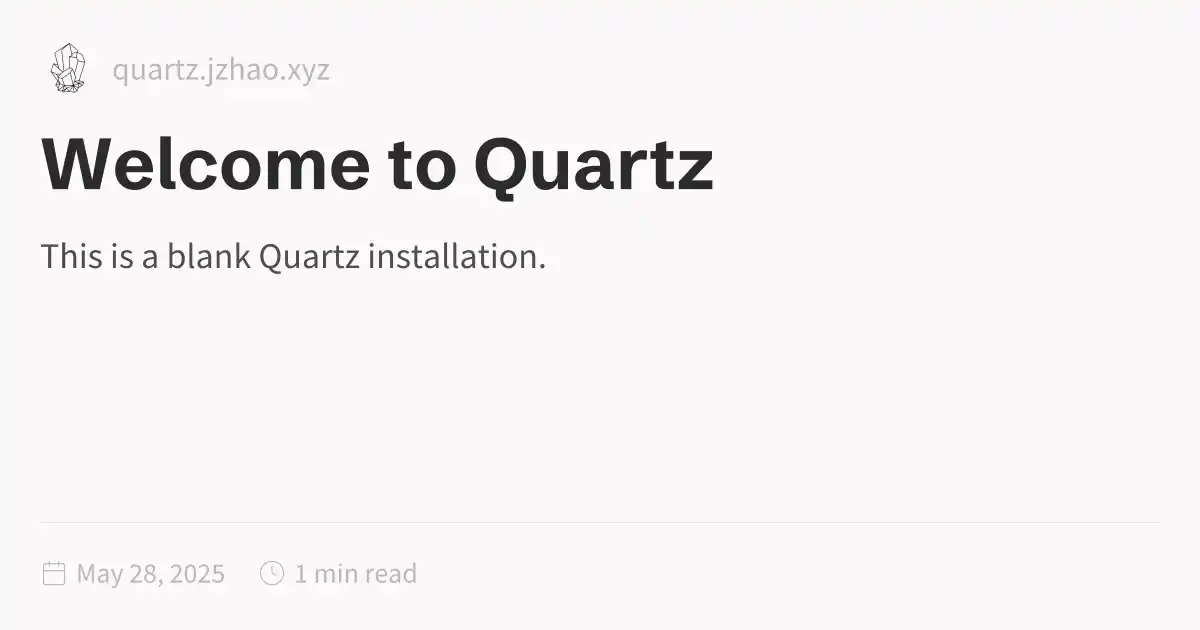
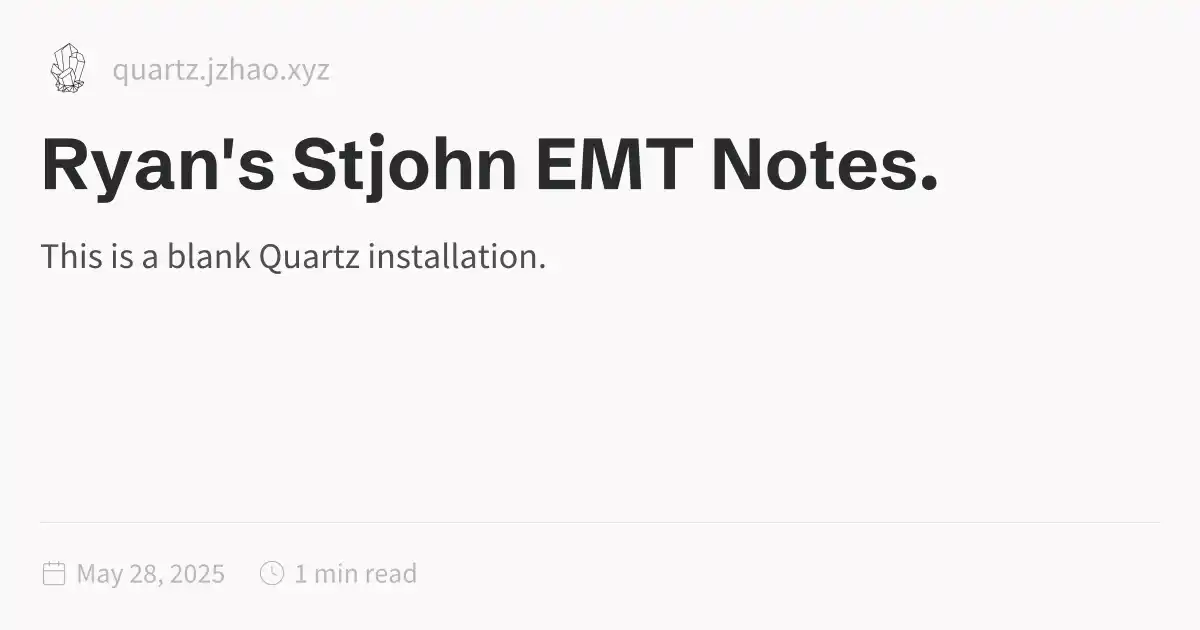
first time modifying public files.

Changed region(s): [[0.0308, 0.2111, 0.8017, 0.3317]]

diff --git a/index.html b/index.html
@@ -1,5 +1,5 @@
 <!DOCTYPE html>
-<html lang="en"><head><title>Welcome to Quartz</title><meta charset="utf-8"/><link rel="preconnect" href="https://fonts.googleapis.com"/><link rel="preconnect" href="https://fonts.gstatic.com"/><link rel="stylesheet" href="https://fonts.googleapis.com/css2?family=Schibsted Grotesk:wght@400;700&amp;family=Source Sans Pro:ital,wght@0,400;0,600;1,400;1,600&amp;family=IBM Plex Mono:wght@400;600&amp;display=swap"/><link rel="preconnect" href="https://cdnjs.cloudflare.com" crossorigin="anonymous"/><meta name="viewport" content="width=device-width, initial-scale=1.0"/><meta name="og:site_name" content="Quartz 4"/><meta property="og:title" content="Welcome to Quartz"/><meta property="og:type" content="website"/><meta name="twitter:card" content="summary_large_image"/><meta name="twitter:title" content="Welcome to Quartz"/><meta name="twitter:description" content="This is a blank Quartz installation."/><meta property="og:description" content="This is a blank Quartz installation."/><meta property="og:image:alt" content="This is a blank Quartz installation."/><meta property="twitter:domain" content="quartz.jzhao.xyz"/><meta property="og:url" content="https://quartz.jzhao.xyz/index"/><meta property="twitter:url" content="https://quartz.jzhao.xyz/index"/><link rel="icon" href="./static/icon.png"/><meta name="description" content="This is a blank Quartz installation."/><meta name="generator" content="Quartz"/><link href="./index.css" rel="stylesheet" type="text/css" spa-preserve/><style>.expand-button {
+<html lang="en"><head><title>Ryan's Stjohn EMT Notes.</title><meta charset="utf-8"/><link rel="preconnect" href="https://fonts.googleapis.com"/><link rel="preconnect" href="https://fonts.gstatic.com"/><link rel="stylesheet" href="https://fonts.googleapis.com/css2?family=Schibsted Grotesk:wght@400;700&amp;family=Source Sans Pro:ital,wght@0,400;0,600;1,400;1,600&amp;family=IBM Plex Mono:wght@400;600&amp;display=swap"/><link rel="preconnect" href="https://cdnjs.cloudflare.com" crossorigin="anonymous"/><meta name="viewport" content="width=device-width, initial-scale=1.0"/><meta name="og:site_name" content="Quartz 4"/><meta property="og:title" content="Ryan's Stjohn EMT Notes."/><meta property="og:type" content="website"/><meta name="twitter:card" content="summary_large_image"/><meta name="twitter:title" content="Ryan's Stjohn EMT Notes."/><meta name="twitter:description" content="This is a blank Quartz installation."/><meta property="og:description" content="This is a blank Quartz installation."/><meta property="og:image:alt" content="This is a blank Quartz installation."/><meta property="twitter:domain" content="quartz.jzhao.xyz"/><meta property="og:url" content="https://quartz.jzhao.xyz/index"/><meta property="twitter:url" content="https://quartz.jzhao.xyz/index"/><link rel="icon" href="./static/icon.png"/><meta name="description" content="This is a blank Quartz installation."/><meta name="generator" content="Quartz"/><link href="./index.css" rel="stylesheet" type="text/css" spa-preserve/><style>.expand-button {
   position: absolute;
   display: flex;
   float: right;
@@ -116,7 +116,7 @@ pre:hover > .expand-button {
   padding: 0 12px;
   font-size: 14px;
 }
[2 lines of base64/hex data omitted]
 
 </article><hr/><div class="page-footer"></div></div><div class="right sidebar"><div class="graph"><h3>Graph View</h3><div class="graph-outer"><div class="graph-container" data-cfg="{&quot;drag&quot;:true,&quot;zoom&quot;:true,&quot;depth&quot;:1,&quot;scale&quot;:1.1,&quot;repelForce&quot;:0.5,&quot;centerForce&quot;:0.3,&quot;linkDistance&quot;:30,&quot;fontSize&quot;:0.6,&quot;opacityScale&quot;:1,&quot;showTags&quot;:true,&quot;removeTags&quot;:[],&quot;focusOnHover&quot;:false,&quot;enableRadial&quot;:false}"></div><button class="global-graph-icon" aria-label="Global Graph"><svg version="1.1" xmlns="http://www.w3.org/2000/svg" xmlns:xlink="http://www.w3.org/1999/xlink" x="0px" y="0px" viewBox="0 0 55 55" fill="currentColor" xml:space="preserve"><path d="M49,0c-3.309,0-6,2.691-6,6c0,1.035,0.263,2.009,0.726,2.86l-9.829,9.829C32.542,17.634,30.846,17,29,17
                 s-3.542,0.634-4.898,1.688l-7.669-7.669C16.785,10.424,17,9.74,17,9c0-2.206-1.794-4-4-4S9,6.794,9,9s1.794,4,4,4
